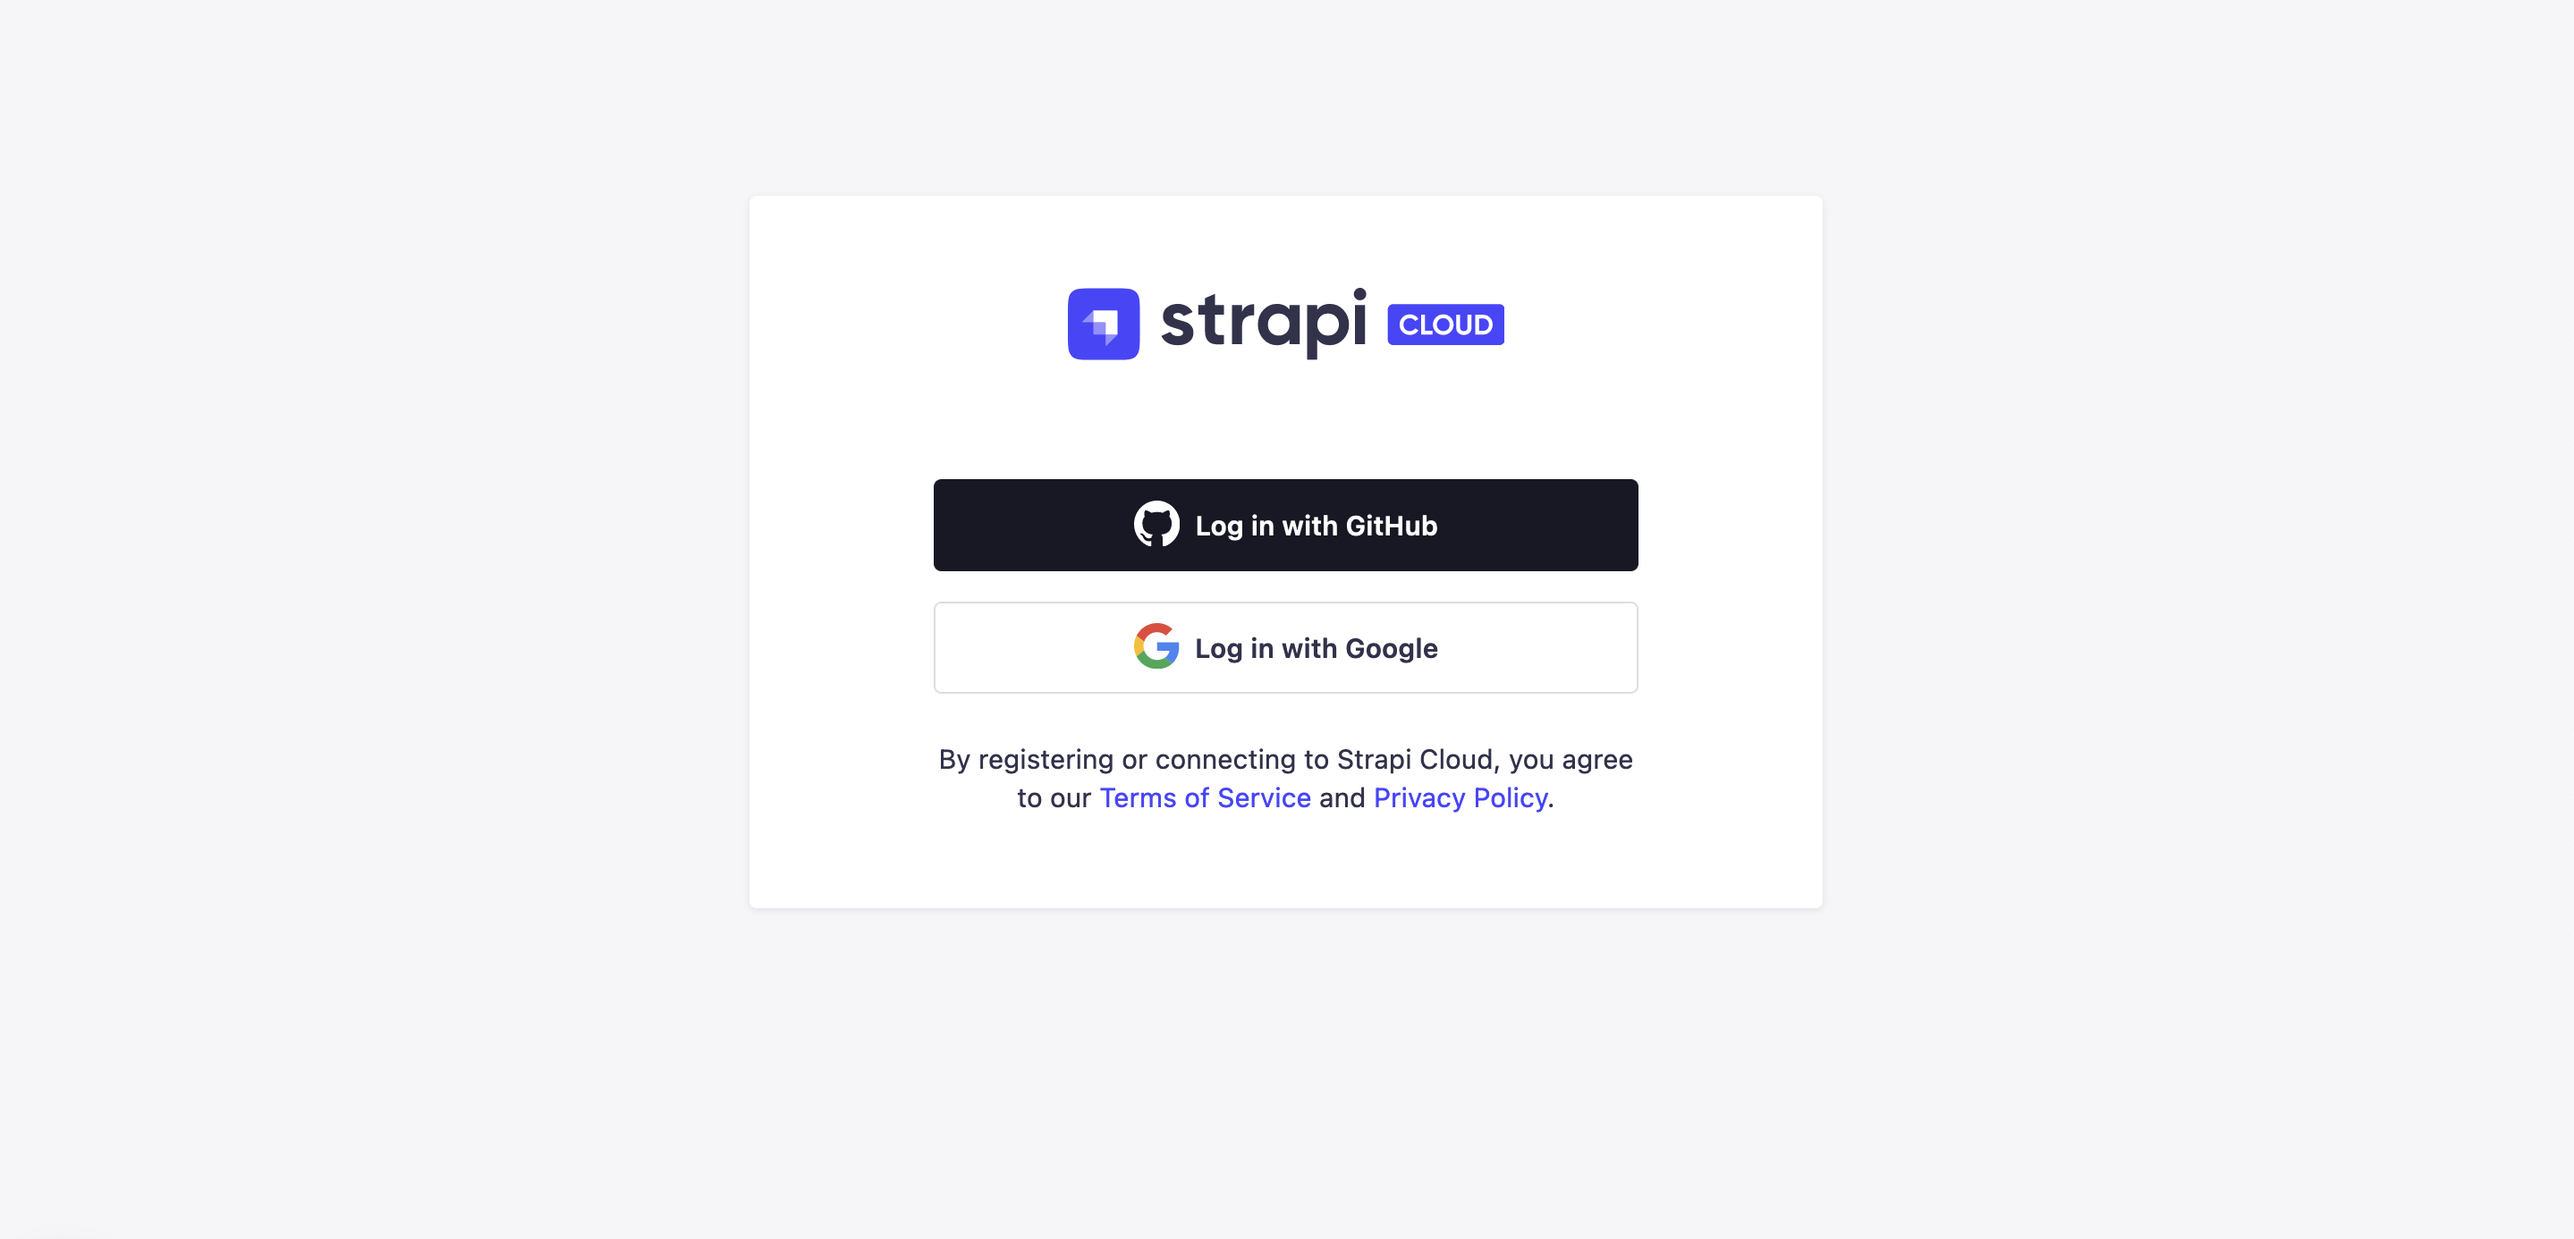
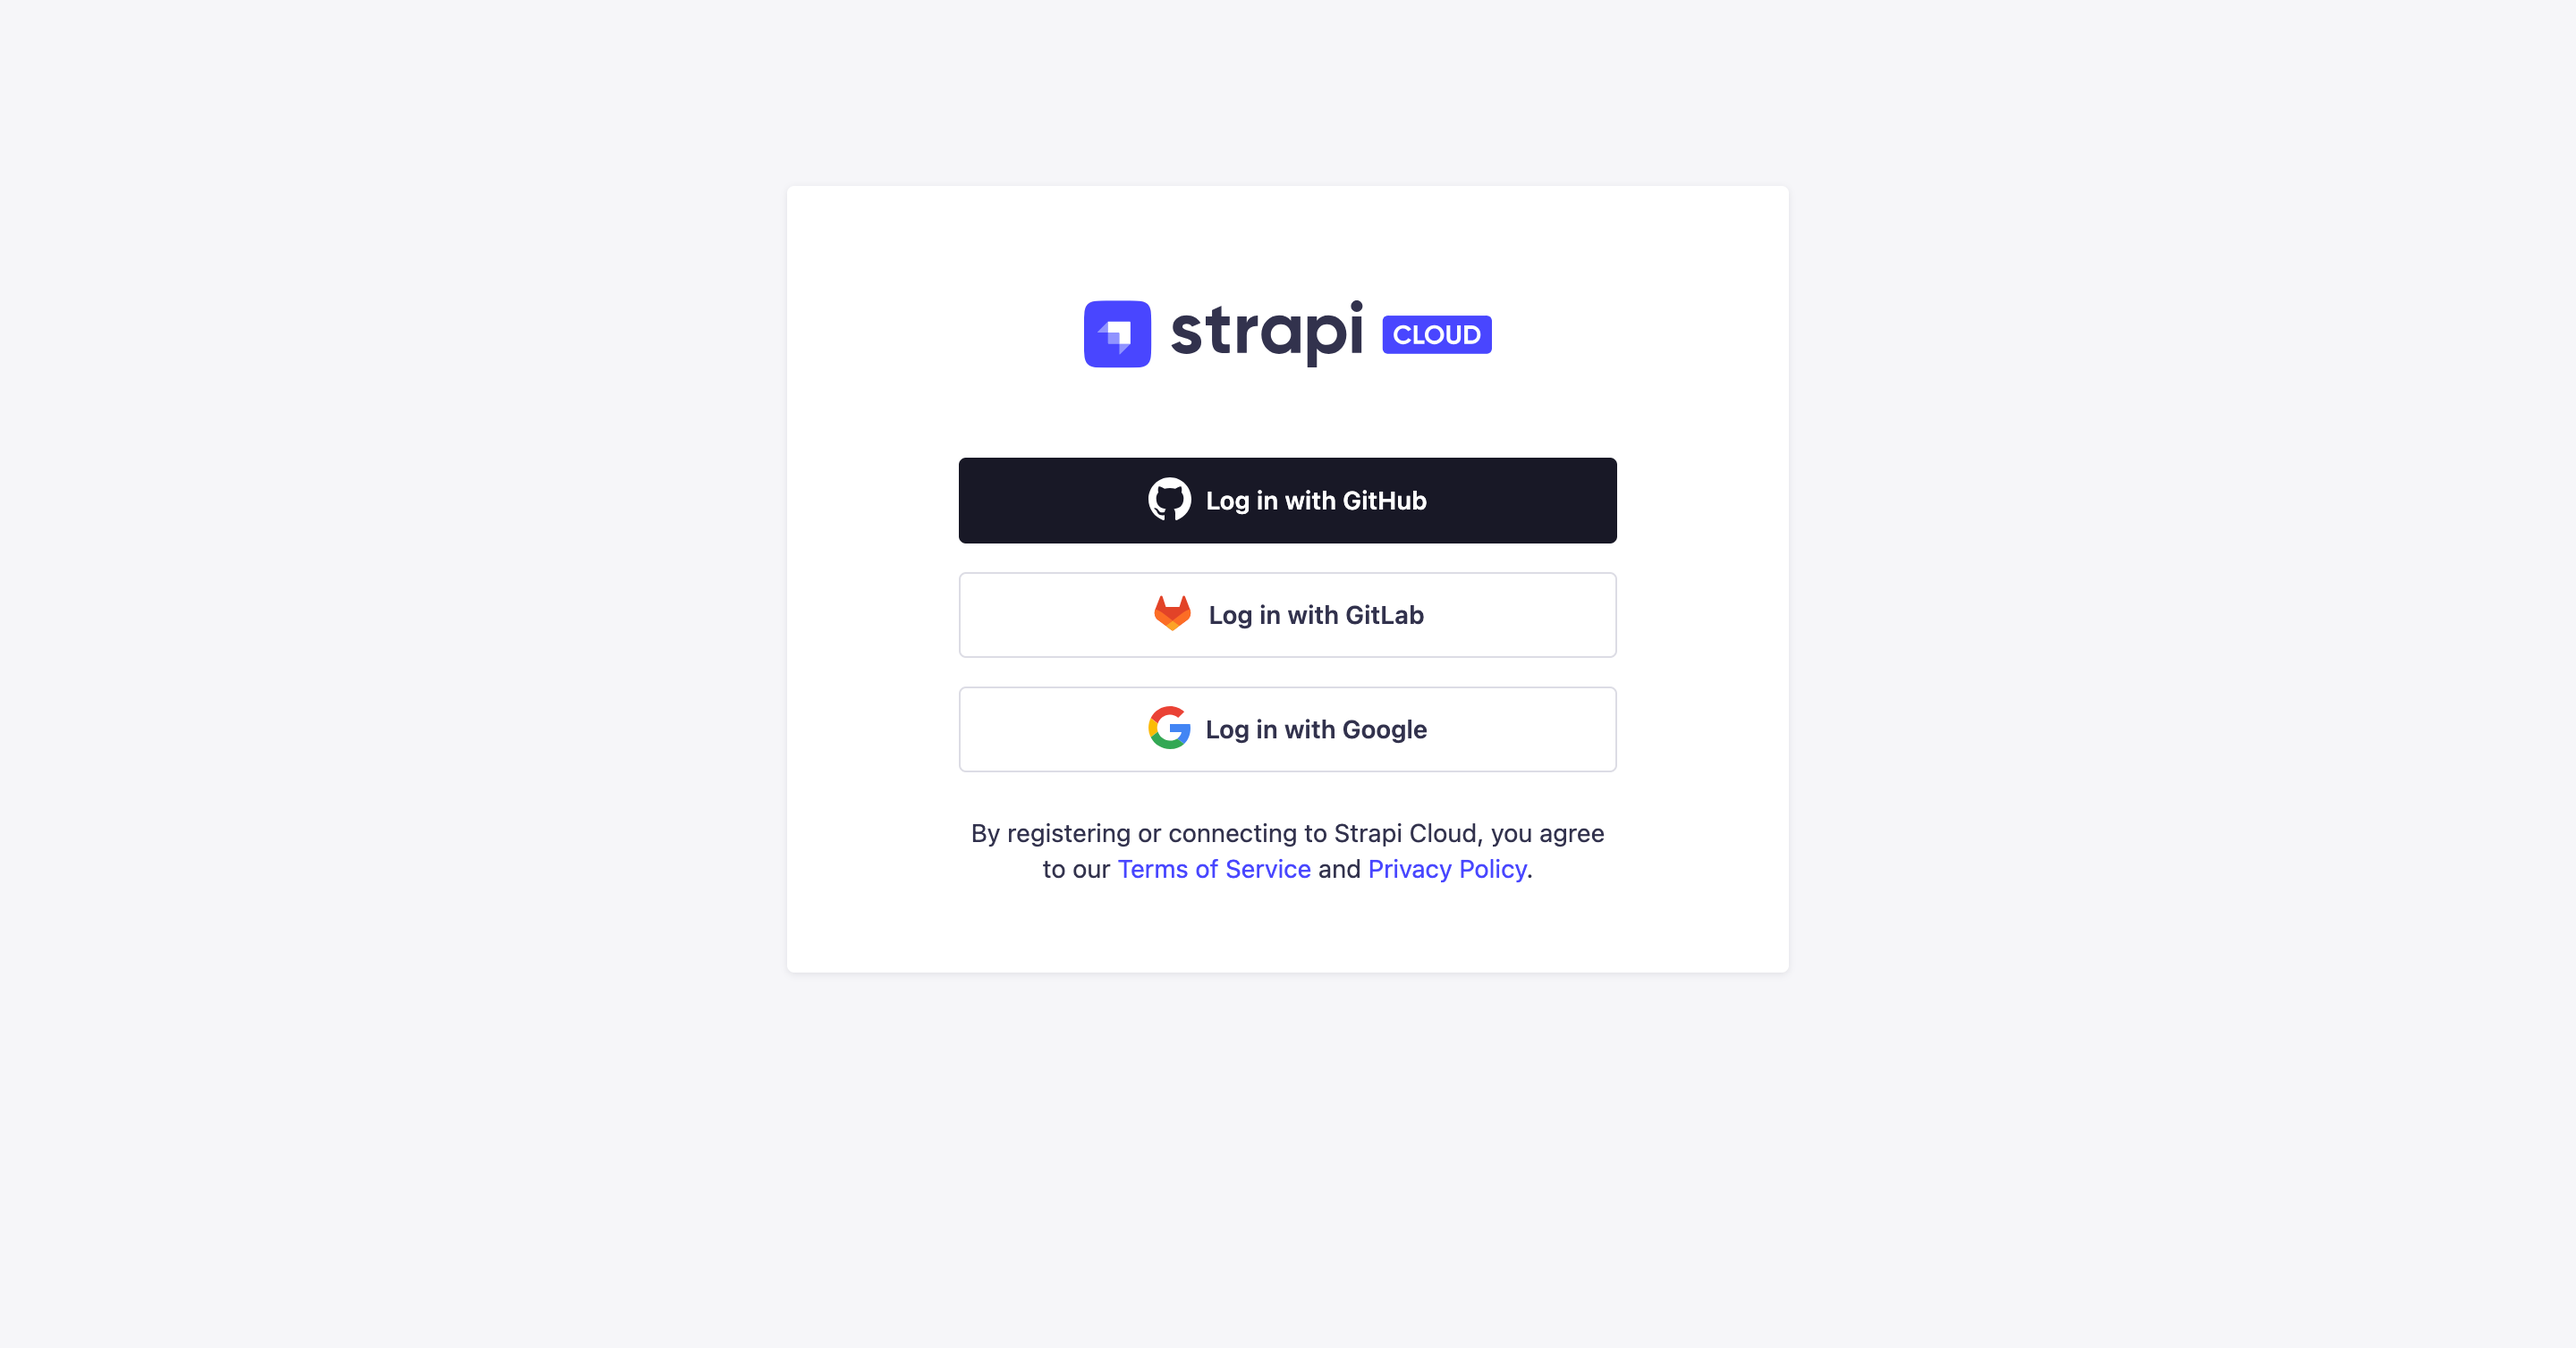
Port #1917 to v5

diff --git a/docusaurus/docs/cloud/getting-started/deployment.md b/docusaurus/docs/cloud/getting-started/deployment.md
@@ -26,7 +26,7 @@ Before you can deploy your Strapi application on Strapi Cloud, you need to have 
 
 1. Navigate to the [Strapi Cloud](https://cloud.strapi.io) login page.
 
-2. You are prompted to **Log in with GitHub** or **Log in with Google**. Choose your provider and log in. This initial login will create your Strapi Cloud account. Once logged in, you will be redirected to the Strapi Cloud *Projects* page where you can create your first Strapi Cloud project.
+2. You have the options to **Log in with GitHub**, **Log in with Google** or **Log in with GitLab**. Choose your provider and log in. This initial login will create your Strapi Cloud account. Once logged in, you will be redirected to the Strapi Cloud *Projects* page where you can create your first Strapi Cloud project.
 
     <ThemedImage
     alt="Strapi Cloud login page"
